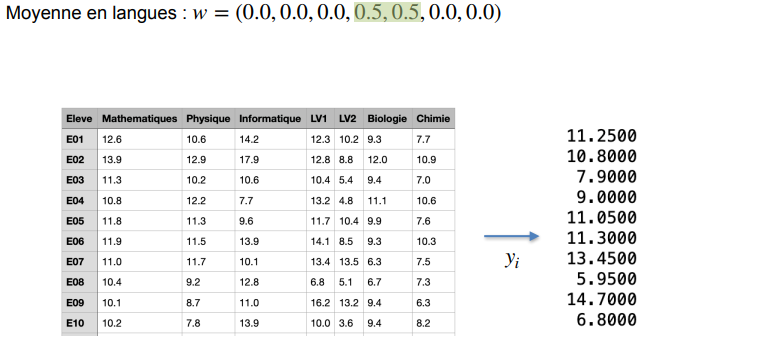
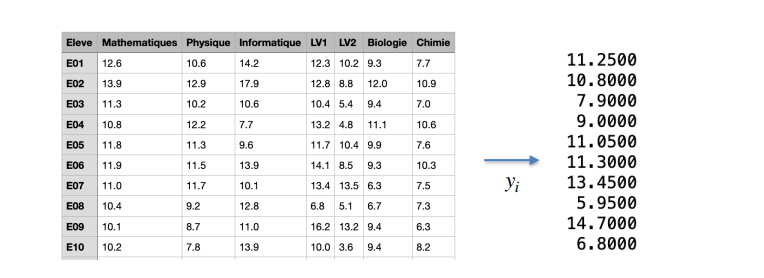
1.Mathematics & Gradients everywhere - 1rst part added, code snippets added and revised

diff --git a/courses/FIDLE/1. Mathematics & Gradients everywhere.md b/courses/FIDLE/1. Mathematics & Gradients everywhere.md
@@ -2,20 +2,20 @@
 
 For sure, you heard about the power of Neural Networks to transform complex representation into insighful information.
 Let's take a simple example in Computer Vision. Given an image, you may build a ANN in order to recognize if some objects are present in the image or not. 
-In the following image we provided an image of a guy to a classic Neural Network architecture(which we'll be stydying later on these series) and it will output the probability that a given object is present in the given image.
-If we want our ANN to recognize many objects simultaneously, it will output a vector containing the probabilities that these elements.
+In the following illustration we provided an image of a guy to a classic Neural Network architecture(which we'll be stydying later on these series) and it will output the probability that a given object is present in the given image.
+If we want our ANN to recognize many objects simultaneously, it will output a vector containing the probabilities of these elements present or not.
 
 ![Image 1](visuals/1.Mathematics-&-Gradients-everywhere/1.png)
 
 Technically, a well advised one would say something like this:
 
-> Neural Network parameters learned using stochastic gradient descent with mini-batches sizes of 50.
+> **Neural Network parameters learned using stochastic gradient descent with mini-batches of size 50.**
 
 But since we're beginners and eager to learn how this is done in depth we're going to treat the following points:
-- How the Neural Network trnasforms layer by layer an image to probabilities?
-- What is Gradient Descent?
+- How does the Neural Network transform layer after layer, an image into probabilities? 
+- What is Gradient Descent? 
 - Backpropagation: How to compute gradients of a Neural Network parameters?
-- Why Stochastic?
+- Stochastic... what is it and what's the point?
 
 
 So if like me, you're excited by all these ANNs stuffs, lettttttttttt's gooooooooooo!!!!!
@@ -39,62 +39,70 @@ About variables in this table:
 | Mathematiques | Mathematics         |
 | Physique      | Physics             |
 | Informatique  | Computer Science    |
-| LV1           | Natural Language 1  |
-| LV2           | Natural Language 2  |
+| LV1           | Modern Language 1  |
+| LV2           | Modern Language 2  |
 | Biologie      | Biology             |
 | Chimie        | Chemistry           |
 
 
 Well, so basically the problematic is 
-> How do you highlight features or let's say extract meaningful information from this table(data)?
+> **Question 1: How do you highlight features or let's say extract meaningful information from this table(data)?**
 
-- An intuive solution that schools often use is calculating the mean of all the grades for each student. In this case we'll got something like that:
+- An intuive solution that schools and teachers often use is **calculating the mean of all the grades** for each student. In other words, we sum up all the grades for each student and then divide by the total number of subjects (7 here).  
+In this case we'll got something like that:
 ![Image 3](visuals/1.Mathematics-&-Gradients-everywhere/3.png)
 
-- A more general solution to the previous one is calculating a weighted sum of the grades in order to extract specific features/tendences for each student.
-The general formula is the following one:
+- A more general solution to the previous one is **calculating a weighted sum of the grades** in order to extract specific features/tendences for each student.  
+The **general formula** is the following one, where the w_j represent the weights and the x_i_j the j_th grade of the i_th student :    
+![Image 3.1](visuals/1.Mathematics-&-Gradients-everywhere/3.1.png)  
 
-    * So if for example we want to know who are the students that are very great at Natural Languages out of the 7 subjects, we can take this following vector 
-    ...   - Mean in Languages
+
+    * For example, if we want to know which students are very **strong only in Modern Languages**, we can take the weight vector as follows: `w = (0.0, 0.0, 0.0, 0.5, 0.5, 0.0, 0.0)`.  
+It simply **calculates the average of the marks obtained in the two language subjects**!  
 ![Image 4](visuals/1.Mathematics-&-Gradients-everywhere/4.png)
 
-    * A second illustration is comes when we want to compare students that are great in Mathematics vs Physics. Taking a weight vector as this one ... simply computes the difference between the two grades: 
+    * A second illustration comes when we want to **compare students who are excellent in mathematics and those who are excellent in physics*. Taking a weight vector `w = (1.0, 0.0, − 1.0, 0.0, 0.0, 0.0, 0.0)`, we simply calculate **the difference between the two scores**: 
 ![Image 5](visuals/1.Mathematics-&-Gradients-everywhere/5.png)
 
-    * Now let's say we want to know how each student performs in scientific subjects. Like in the first example we can simply compute a weighted sum of the scientific subjects with a weight vector given as: ...
+    * Now let's say we want to know how each student performs in **scientific subjects**. Like in the first example we can simply compute **a weighted sum of the scientific subjects** with a weight vector given as `w = (0.2, 0.2, 0.2, 0.0, 0.0, 0.2, 0.2)`.
+**The average performance in scientific subjects.**  
 ![Image 6](visuals/1.Mathematics-&-Gradients-everywhere/6.png)
 
-Well you noticed that it's interesting to see in a more informative way how our students performs generally, in Natural Languages and in Scientific subjects... That's great, but too easy. Yes indeed, we need some more and specific information.
+Well you noticed that it's interesting to see in a more informative way how our students performs generally in all the subjects, and particularly in Modern Languages and in Scientific subjects... That's great, but too easy. Yes indeed, we need some more and specific information.
 
-> So how can we keep only the information that interests us?
+
+> **Question 2: How can we keep only the information that interests us?**
 
 
 ### Dense layer with bias, followed by ReLU (Rectified Linear Unit)
 
-If the previous question is not yet clear to you, imagine from the third(last) illustration we only want to know exactly who are the students that are above the average to pass (10 in our case) in scientific subjects and discard the remaining ones.
-A simple solution consists to substract 10 to the weighted sum result and then keep only students whose results zre positive(above zero).
+If the previous question is not yet clear to you, imagine from the third(last) illustration we only want to know exactly who are the students that are above the average to pass (10 in our case) in science subjects and discard the remaining ones (others that are below the passing average).  
+A simple solution would be to subtract 10 from the weighted sum and keep only those students whose results are positive (above zero).
 
 Here is an illustration:
 ![Image 7](visuals/1.Mathematics-&-Gradients-everywhere/7.png)
 
-The formula is something like that : 
+So basically, what is done here is substracting 10 to the result of the weighted sum of scientific subjects and using the ReLU function we test if the global result is greater than zero (0) then we keep it as it is but if it's negative we replace it by zero (0).  
 
-
-In Deep Learning, b (value 10 here) is called **the bias term** and the function max(0, s)... is the **Rectified Linear Unit called ReLU** for short.
+In Deep Learning, b (value 10 here) is called **the bias term** and the function **y_i = max(0, s_i)** is the **Rectified Linear Unit called ReLU** for short.  
 **Simply put, ReLU allows you to set unnecessary information to zero** (of course depending on the weightings chosen).
 
 Let's apply same principles to Languages subjects and see which students performs well on both scientific and Languages:
 
-![Image 8](visuals/1.Mathematics-&-Gradients-everywhere/8.png)
+![Image 8](visuals/1.Mathematics-&-Gradients-everywhere/8.png)  
+You noticed we passed **from a 7 columns raw table to a 2 columns meaningful table** showing us exactly what we wanted to know i.e., the best students in Sciences and Languages. We can even go futher by repeating this process again and again with different weights and different subjects.
+I think at this stage, you got the point: **this process is exactly what Dense layers in Neural Networks do.**
 
-So to sum up, what Dense layers do is:
+So to sum up, what Dense layers i.e., **several weighted sums with bias, followed by ReLU** do is:
+- Data dimension reduction 
+- Feature extraction 
+- Information selection
 
 
+Isn't it cool? But since I'm a programmer, I'll find it more cool if I can program it :)
 
+> **Question 3: How do we code this in a language dedicated to Neural Networks?**
 
-Isn't it cool? Since I'm a programmer, I'll find it more cool if I can program it :)
-
-> How do we code this in a language dedicated to neural networks?
 
 ### Practice with code
 
@@ -102,12 +110,52 @@ First let's start by importing the necessary librairies.
 Note that we're going to use PyTorch for all the Neural Networks implementations in these series.
 
 ```python
+import numpy as np                # linear algebra
+import pandas as pd               # data processing
+import matplotlib.pyplot as plt   # visualisations
 
+import torch                      # PyTorch
 ```
 
+Now let's import the data itself using Pandas. Note that I'm working in a Kaggle environment:
+
+```python
+data = pd.read_csv("/kaggle/input/notes-table/table notes.png.csv")
+```
+The DataFrame looks like this:
+![Image 8.1](visuals/1.Mathematics-&-Gradients-everywhere/8.1.png)
 
 
 
+```python
+data.pop("Eleve")
+subjects = list(data.keys())
+
+notes = data.to_numpy()
+print(notes)
+```
+
+```python
+notes_pt = torch.tensor(notes, dtype=torch.float64)
+
+# define activation function
+activation_fct_relu = torch.nn.ReLU()
+
+# define dense layer and it parameters(7 input features; 2 output features)
+linear_filter = torch.nn.Linear(7, 2, bias=True)
+```
+
+```python
+linear_filter.weight.data = torch.tensor([[0.2, 0.2, 0.2, 0.0, 0.0, 0.2, 0.2],
+                                         [0.0, 0.0, 0.0, 0.5, 0.5, 0.0, 0.0]], 
+                                        dtype=torch.float64)
+linear_filter.bias.data   = torch.tensor([-10, -10], dtype=torch.float64)
+```
+
+```python
+filtered_data = activation_fct_relu(linear_filter(notes_pt[:,:]))
+print(filtered_data)
+```
 
 
 ## 2. Convolution filters
